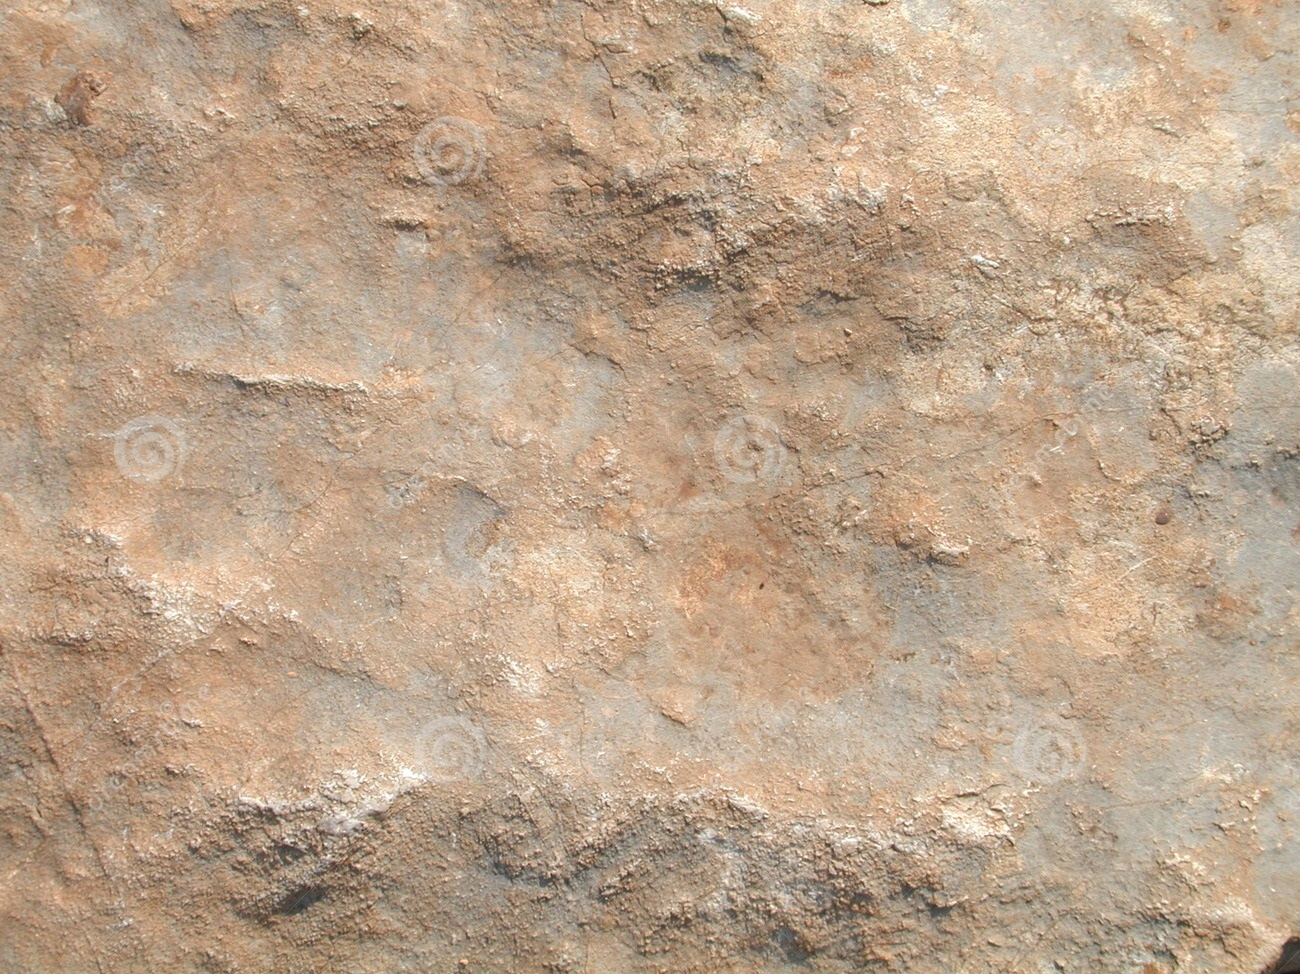
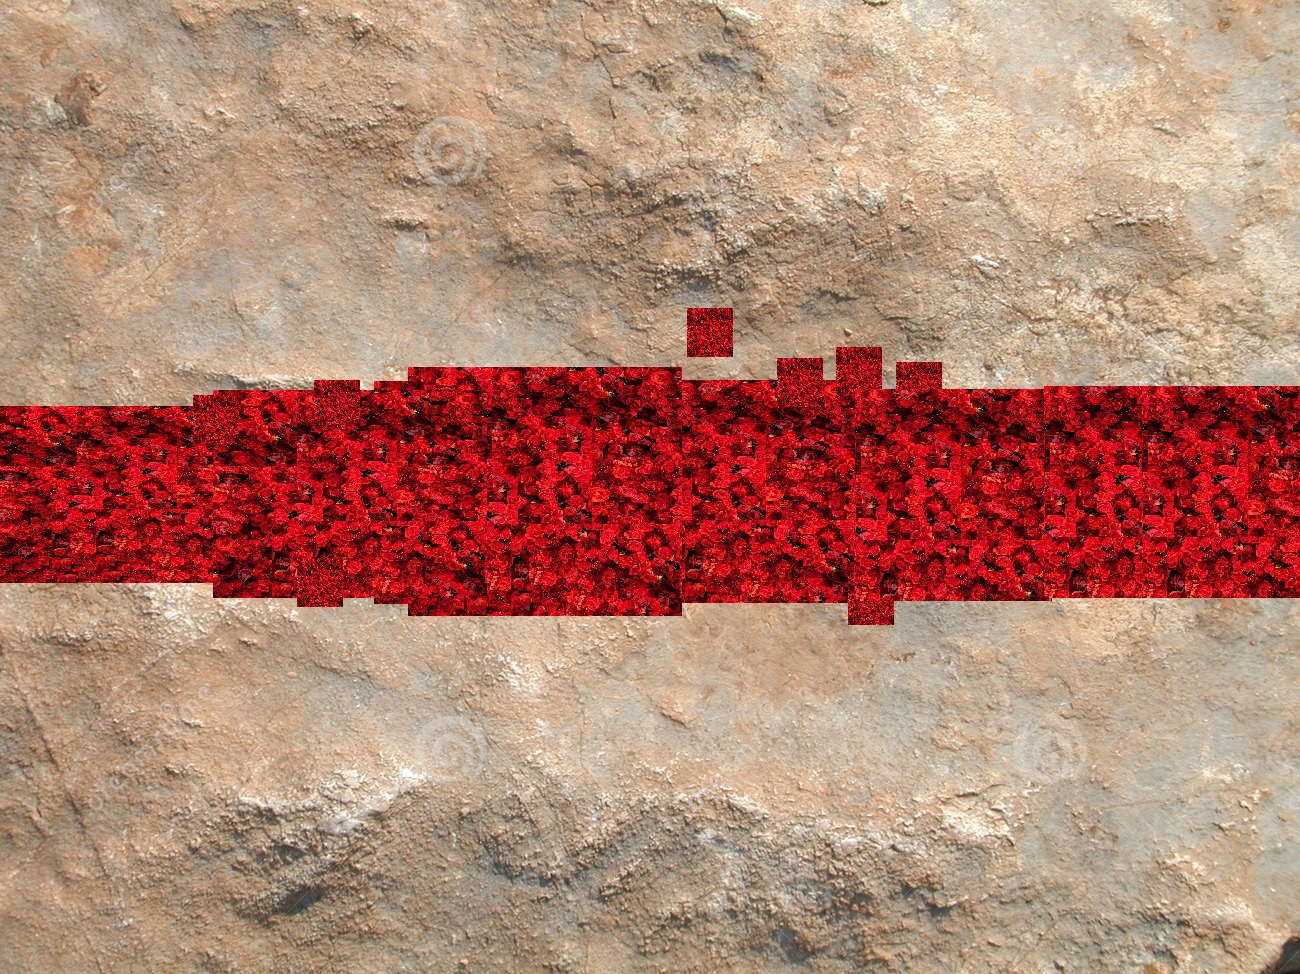
agrego rosas

Changed region(s): [[0.0, 0.308, 1.0, 0.6468]]

diff --git a/Entidades/Prototipo.js b/Entidades/Prototipo.js
@@ -4,20 +4,18 @@ class Prototipo{
 
         /**Plano de referencia */
         var geometria = new Plano(200,200,[0.9,0.9,0.9]);
-        this.plano = new Objeto(geometria);
+            this.plano = new Objeto(geometria);
 
         /**Escaleras */
+        var geometria_esc_1 = new Rectangulo(70,5,8,[1,1,1],50,50);
 
-        var geometria_esc_1_1 = new Rectangulo(70,5,8,[1,1,1],50,50);
-            this.escalera_1_1 = new Objeto(geometria_esc_1_1)
-        var geometria_esc_1_2 = new Rectangulo(70,5,6,[1,1,1],50,50);
-            this.escalera_1_2 = new Objeto(geometria_esc_1_2)
-        var geometria_esc_1_3 = new Rectangulo(70,5,4,[1,1,1],50,50);
-            this.escalera_1_3 = new Objeto(geometria_esc_1_3)
-        var geometria_esc_1_4 = new Rectangulo(70,5,2,[1,1,1],50,50);
-            this.escalera_1_4 = new Objeto(geometria_esc_1_4)
+            this.escalera_1_1 = new Objeto(geometria_esc_1)
+            this.escalera_1_2 = new Objeto(geometria_esc_1)
+            this.escalera_1_3 = new Objeto(geometria_esc_1)
+            this.escalera_1_4 = new Objeto(geometria_esc_1)
 
         var geometria_esc_2 = new Rectangulo(10,8,50,[1,1,1],50,50);
+
             this.escalera_2_1 = new Objeto(geometria_esc_2)
             this.escalera_2_2 = new Objeto(geometria_esc_2)
             this.escalera_2_3 = new Objeto(geometria_esc_2)
@@ -54,7 +52,6 @@ class Prototipo{
 
             this.escalera_3_1 = new Objeto(geometria_esc_2)
             this.escalera_3_2 = new Objeto(geometria_esc_2)
-
             this.escalera_3_3 = new Objeto(geometria_esc_2)
             this.escalera_3_4 = new Objeto(geometria_esc_2)
             this.escalera_3_5 = new Objeto(geometria_esc_2)
@@ -71,47 +68,55 @@ class Prototipo{
 
         /**Pisos */
         var geometria_Base = new Rectangulo(120,160,20,[1,1,1],50,50);
-        this.base = new Objeto(geometria_Base)      
+            this.base = new Objeto(geometria_Base)      
         var geometria_Base_2 = new Rectangulo(80,80,10,[1,1,1],50,50);
-        this.base_2 = new Objeto(geometria_Base_2)
+            this.base_2 = new Objeto(geometria_Base_2)
 
         /**Techo */
         var geometria_techo_2 = new Triangulo(50,50,80,[1,1,1]);
-        this.techo_1 = new Objeto(geometria_Base_2)
-        this.techo_2 = new Objeto(geometria_techo_2)
+            this.techo_1 = new Objeto(geometria_Base_2)
+            this.techo_2 = new Objeto(geometria_techo_2)
             
         /**Casa */
         var geometria_Base_3 = new Rectangulo(60,60,60,[1,1,1],50,50);
-        this.casa = new Objeto(geometria_Base_3)
+            this.casa = new Objeto(geometria_Base_3)
 
         /**Columnas */
         var geometria_col_1 = new Cilindro(2,65,100,100,[1,1,1])
-        this.col_1 = new Objeto(geometria_col_1)
-        this.col_2 = new Objeto(geometria_col_1)
-        this.col_3 = new Objeto(geometria_col_1)
-        this.col_4 = new Objeto(geometria_col_1)
-        this.col_5 = new Objeto(geometria_col_1)
-        this.col_6 = new Objeto(geometria_col_1)
-        this.col_7 = new Objeto(geometria_col_1)
-        this.col_8 = new Objeto(geometria_col_1)
-        this.col_9 = new Objeto(geometria_col_1)
-        this.col_10 = new Objeto(geometria_col_1)
-        this.col_11 = new Objeto(geometria_col_1)
-        this.col_12 = new Objeto(geometria_col_1)
-        this.col_13 = new Objeto(geometria_col_1)
-        this.col_14 = new Objeto(geometria_col_1)
-        this.col_15 = new Objeto(geometria_col_1)
-        this.col_16 = new Objeto(geometria_col_1)
-        this.col_17 = new Objeto(geometria_col_1)
-        this.col_18 = new Objeto(geometria_col_1)
+            this.col_1 = new Objeto(geometria_col_1)
+            this.col_2 = new Objeto(geometria_col_1)
+            this.col_3 = new Objeto(geometria_col_1)
+            this.col_4 = new Objeto(geometria_col_1)
+            this.col_5 = new Objeto(geometria_col_1)
+            this.col_6 = new Objeto(geometria_col_1)
+            this.col_7 = new Objeto(geometria_col_1)
+            this.col_8 = new Objeto(geometria_col_1)
+            this.col_9 = new Objeto(geometria_col_1)
+            this.col_10 = new Objeto(geometria_col_1)
+            this.col_11 = new Objeto(geometria_col_1)
+            this.col_12 = new Objeto(geometria_col_1)
+            this.col_13 = new Objeto(geometria_col_1)
+            this.col_14 = new Objeto(geometria_col_1)
+            this.col_15 = new Objeto(geometria_col_1)
+            this.col_16 = new Objeto(geometria_col_1)
+            this.col_17 = new Objeto(geometria_col_1)
+            this.col_18 = new Objeto(geometria_col_1)
 
         /**Ecaleras Gigante 1 */
         var geometria_esc_central = new Triangulo(175,280,5,[1,1,1]);
-        this.base_esc_1_1 = new Objeto(geometria_esc_central)
-        this.base_esc_1_2 = new Objeto(geometria_esc_central)
+            this.base_esc_1_1 = new Objeto(geometria_esc_central)
+            this.base_esc_1_2 = new Objeto(geometria_esc_central)
+
         var geometria_esc_central_2 = new Triangulo(120,160,5,[1,1,1]);
-        this.base_esc_2_1 = new Objeto(geometria_esc_central_2)
-        this.base_esc_2_2 = new Objeto(geometria_esc_central_2)
+            this.base_esc_2_1 = new Objeto(geometria_esc_central_2)
+            this.base_esc_2_2 = new Objeto(geometria_esc_central_2)
+
+        /** Campo de Flores */
+        var geometria_campo_1 = new Plano(200,50,[1,1,1])
+            this.campoRosas_1 = new Objeto(geometria_campo_1)
+        var geometria_campo_2 = new Plano(20,20,[1,1,1])
+            this.campoRosas_2 = new Objeto(geometria_campo_2)
+
 
         
         /**Agregar Hijos */
@@ -182,7 +187,6 @@ class Prototipo{
 
         this.base_esc_2_1.addChildren(this.escalera_3_1)
         this.base_esc_2_1.addChildren(this.escalera_3_2)
-
         this.base_esc_2_1.addChildren(this.escalera_3_3)
         this.base_esc_2_1.addChildren(this.escalera_3_4)
         this.base_esc_2_1.addChildren(this.escalera_3_5)
@@ -197,13 +201,13 @@ class Prototipo{
         this.base_esc_2_1.addChildren(this.escalera_3_14)
         this.base_esc_2_1.addChildren(this.escalera_3_15)
 
-
         /**Configuracion inicial */
         this.configuracion();
+
     }
 
-    configuracion(){
 
+    configuracion(){
 
         /** Valores de mapas */
         this.plano.setMapaDifuso(piedra_textura);
@@ -211,11 +215,21 @@ class Prototipo{
         this.plano.setMapaRelieve(piedra_relieve);
         this.plano.coheficienteRelieve(280.0);
 
+        this.campoRosas_1.setMapaDifuso(rosas_textura);
+        this.campoRosas_1.setMapaNormal(rosas_normal);
+        this.campoRosas_1.setMapaRelieve(rosas_relieve);
+        this.campoRosas_1.coheficienteRelieve(1.0);
+
         /** Estilo */
         this.plano.textura(true);
         this.plano.normalMap(true);
         this.plano.relieve(true);
         this.plano.animacion(false);
+
+        this.campoRosas_1.textura(true);
+        this.campoRosas_1.normalMap(true);
+        this.campoRosas_1.relieve(true);
+        this.campoRosas_1.animacion(false);
         
         /** Iluminacion */
         this.plano.phongCoheficientes(0.1,2,0.2,50);
@@ -236,6 +250,8 @@ class Prototipo{
         this.base_esc_2_1.rotarY(-Math.PI/2);
         this.base_esc_2_2.rotarX(Math.PI/2);
         this.base_esc_2_2.rotarY(-Math.PI/2);
+
+        this.campoRosas_1.rotarX(Math.PI*0.22);
        
         /**Translacion */
         this.plano.trasladar([0,0,0]);
@@ -248,9 +264,9 @@ class Prototipo{
         this.base_esc_2_2.trasladar([-300,150,24]);
 
         this.escalera_1_1.trasladar([0,-22,20]);
-        this.escalera_1_2.trasladar([0,-27,20]);
-        this.escalera_1_3.trasladar([0,-32,20]);
-        this.escalera_1_4.trasladar([0,-37,20]);
+        this.escalera_1_2.trasladar([0,-27,18]);
+        this.escalera_1_3.trasladar([0,-32,16]);
+        this.escalera_1_4.trasladar([0,-37,14]);
 
         this.escalera_2_1.trasladar([0,160,2.5]);
         this.escalera_2_2.trasladar([8,155,2.5]);
@@ -326,6 +342,8 @@ class Prototipo{
         this.techo_1.trasladar([0,0,60]);
         this.techo_2.trasladar([-32,-32,-40]);
 
+        this.campoRosas_1.trasladar([75,230,14]);
+
         /** Formato de vetices */
         this.plano.setDrawType(gl.TRIANGLES);
         this.base.setDrawType(gl.TRIANGLES);
@@ -348,6 +366,8 @@ class Prototipo{
        this.base_esc_2_2.dibujar()
        this.base_esc_1_1.dibujar()
        this.base_esc_1_2.dibujar()
+
+       this.campoRosas_1.dibujar()
  
     }
 }

diff --git a/index.html b/index.html
@@ -249,8 +249,12 @@
         <script type="text/javascript" src="Utils/Menu.js"></script>
 
         <img id="piedras-textura" crossOrigin = "anonymous" src="Texturas/Difusas/piedras.jpg"  width="0" height="0"></img> 
-        <img id="piedras-normal" crossOrigin = "anonymous" src="Texturas/Normales/piedrasN.png"  width="0" height="0"></img> 
+        <img id="piedras-normal" crossOrigin = "anonymous" src="Texturas/Normales/rosasN.png"  width="0" height="0"></img> 
         <img id="piedras-relieve" crossOrigin = "anonymous" src="Texturas/Normales/piedrasR.png"  width="0" height="0"></img> 
+
+        <img id="rosas-textura" crossOrigin = "anonymous" src="Texturas/Difusas/rosas2.jpg"  width="0" height="0"></img> 
+        <img id="rosas-normal" crossOrigin = "anonymous" src="Texturas/Normales/rosas2N.png"  width="0" height="0"></img> 
+        <img id="rosas-relieve" crossOrigin = "anonymous" src="Texturas/Normales/rosas2N.png"  width="0" height="0"></img> 
 
      
 

diff --git a/Utils/Main.js b/Utils/Main.js
@@ -46,12 +46,13 @@ var     canvas = null;
         useDisplacementMapLocation = null;
       
     /** Texturas */
-
-     
-
         piedra_textura = null;
         piedra_normal = null;
         piedra_relieve = null;
+     
+        rosas_textura = null;
+        rosas_normal = null;
+        rosas_relieve = null;
 
     
     /** Matrices */
@@ -262,14 +263,19 @@ function configuracionInicial(){
 
 function initTextures(){
 
+  
+
     /** Mapas de Texturas */
     piedra_textura  = getTexture("piedras-textura");
+    rosas_textura = getTexture("rosas-textura");
 
     /** Mapas de Normales */         
     piedra_normal  = getTexture("piedras-normal"); 
+    rosas_normal = getTexture("rosas-textura");
 
     /** Mapas de Revielve */         
     piedra_relieve  = getTexture("piedras-relieve"); 
+    rosas_relieve = getTexture("rosas-textura");
      
 }
 
